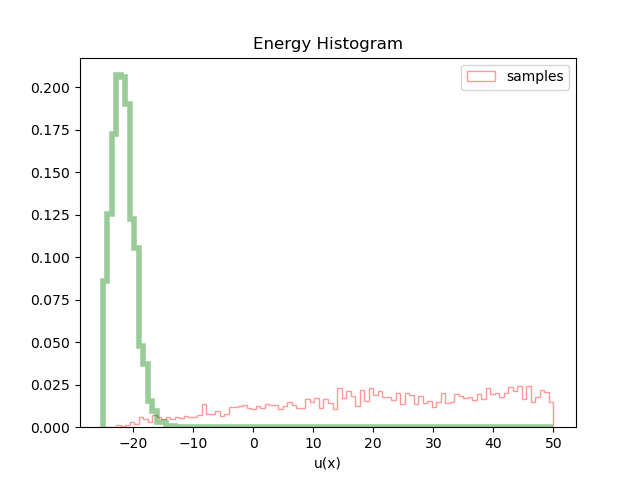
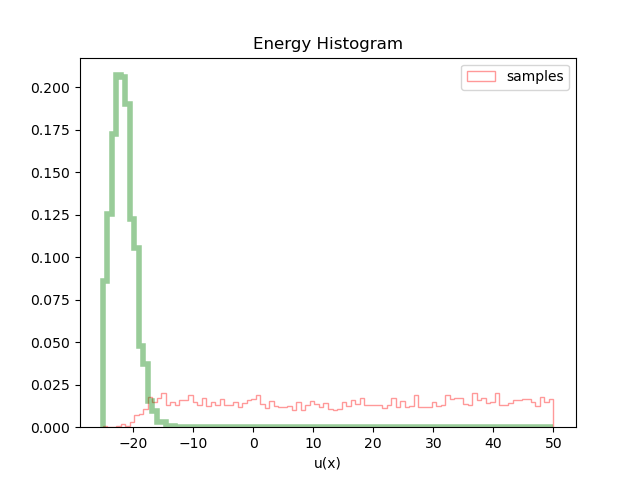
kldivergence training with lamb=0.1

Changed region(s): [[0.2188, 0.8125, 0.4688, 0.875], [0.4688, 0.8125, 0.875, 0.875], [0.1875, 0.875, 0.2188, 0.9062]]

diff --git a/dw4_experiment/losses.py b/dw4_experiment/losses.py
@@ -64,13 +64,13 @@ def compute_loss_and_nll_kerneldynamics(args, flow, prior, target, device, batch
     nll_mean = nll.mean()
     loss = nll_mean
 
-    # if args.lamb > 0:
-         # latent = prior.sample(size=[bs, 4, 2], device=device)
-         # x, dlogp_x = flow(latent, inverse=True)
-         # x = x.view(bs, -1)
-         # kll = target.energy(x) - dlogp_x
-         # kll_mean = kll.mean()
-         # loss = (1 - args.lamb) * nll_mean + args.lamb * kll_mean
+    if args.lamb > 0:
+         latent = prior.sample(size=[bs, 4, 2], device=device)
+         x, dlogp_x = flow(latent)
+         x = x.view(bs, -1)
+         kll = target.energy(x) + dlogp_x
+         kll_mean = kll.mean()
+         loss = (1 - args.lamb) * nll_mean + args.lamb * kll_mean
  
     reg_term, mean_abs_z = torch.tensor([0.]), 0
     return loss, nll_mean, reg_term.to(z.device), mean_abs_z, log_pz, dlogp, nll
